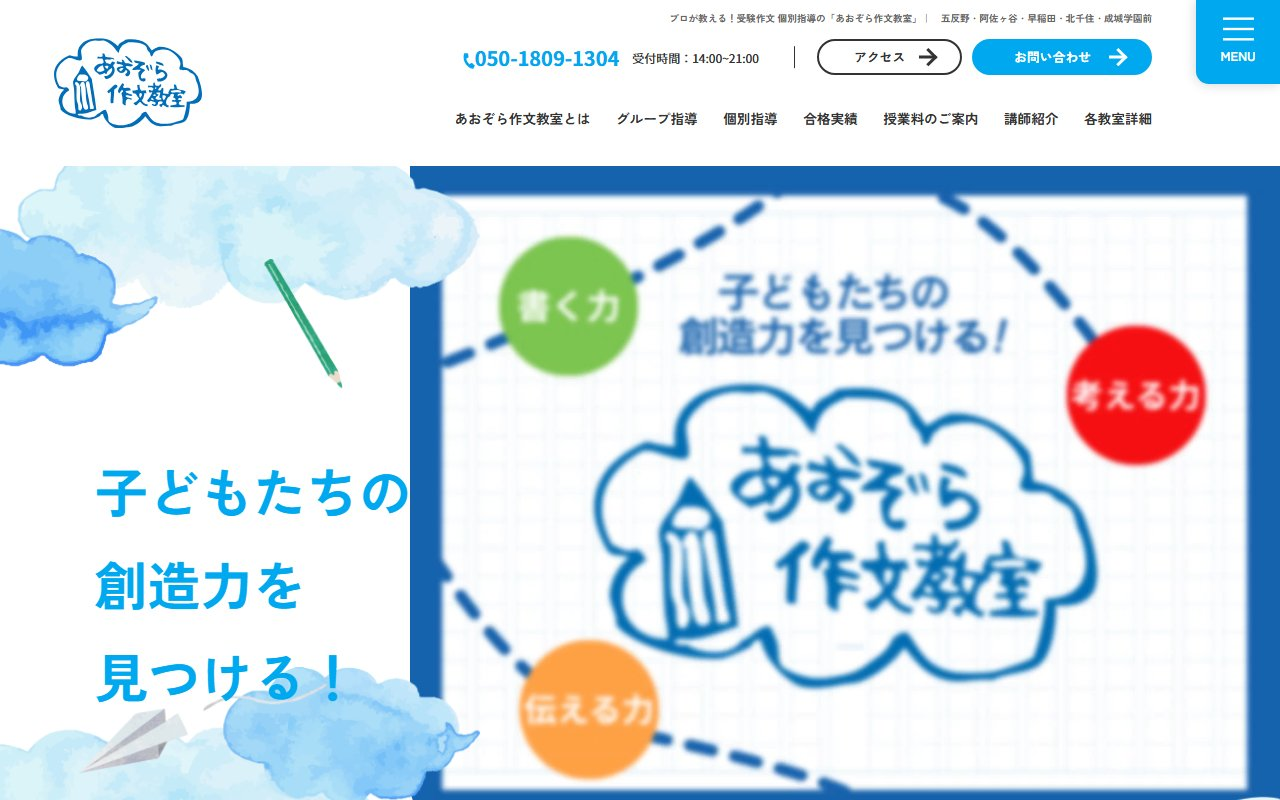
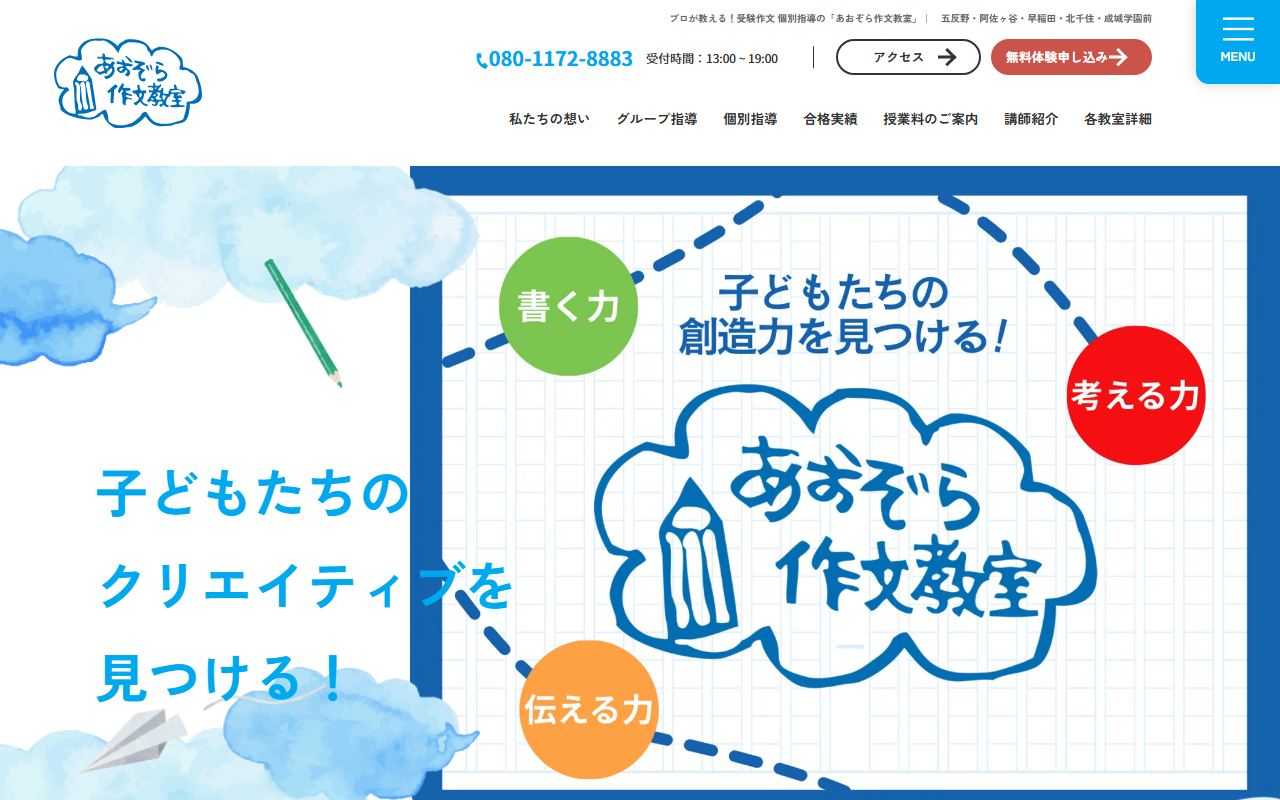
修正：アルセンの実績を追加し、既存2件のサムネイルを差し替え
## ファイル追加
- assets/images/works/arusen.jpg: 株式会社アルセンの実績サムネイル

## その他
- assets/js/works-data.js: 株式会社アルセンの実績エントリ（tracking含む）を一覧の先頭に追加
- assets/images/works/sakubuncafe.jpg: 現行サイトのファーストビューで撮り直し（1280×800 JPEG）
- assets/images/works/cinematic.jpg: 現行サイトのファーストビューで撮り直し（1280×800 JPEG）

diff --git a/assets/js/works-data.js b/assets/js/works-data.js
@@ -23,6 +23,22 @@ const ANALYTICS_SETUP = [
 
 const WORKS = [
   {
+    id: "arusen",
+    title: "株式会社アルセン",
+    category: "website",
+    catLabel: "Webサイト",
+    role: "単独制作",
+    url: "https://arusen.com/",
+    summary: "独自技術で機能性素材を開発する株式会社アルセンのコーポレートサイト。Figma MCP × Claude Code を活用し、単独制作・5営業日で納品しました。",
+    description: "「独自技術の融複合で、新たな製品価値を作る」を掲げる株式会社アルセンのコーポレートサイト。「暗所イオン触媒」「スマート繊維 IoniQue-EX」「真軸インソール／Magic Insole」という3つのコア技術と研究開発のエビデンスを整理し、アパレル・寝具・フットウェアなどのメーカーからOEM・共同開発の相談につながる導線を設計しました。Figma MCPでデザインカンプから実装値を直接取得し、Claude Codeによる実装・検証を組み合わせることで、単独制作でありながら5営業日での納品を実現しています。",
+    tech: ["HTML", "CSS / SCSS", "JavaScript", "WordPress", "PHP", "Figma MCP", "Claude Code"],
+    tracking: [
+      { name: "Google Analytics", work: "設置・初期設定" },
+      { name: "Google Tag Manager", work: "設置・初期設定・キーイベント設定" }
+    ],
+    thumb: "assets/images/works/arusen.jpg"
+  },
+  {
     id: "sakubuncafe",
     title: "あおぞら作文教室",
     category: "website",
